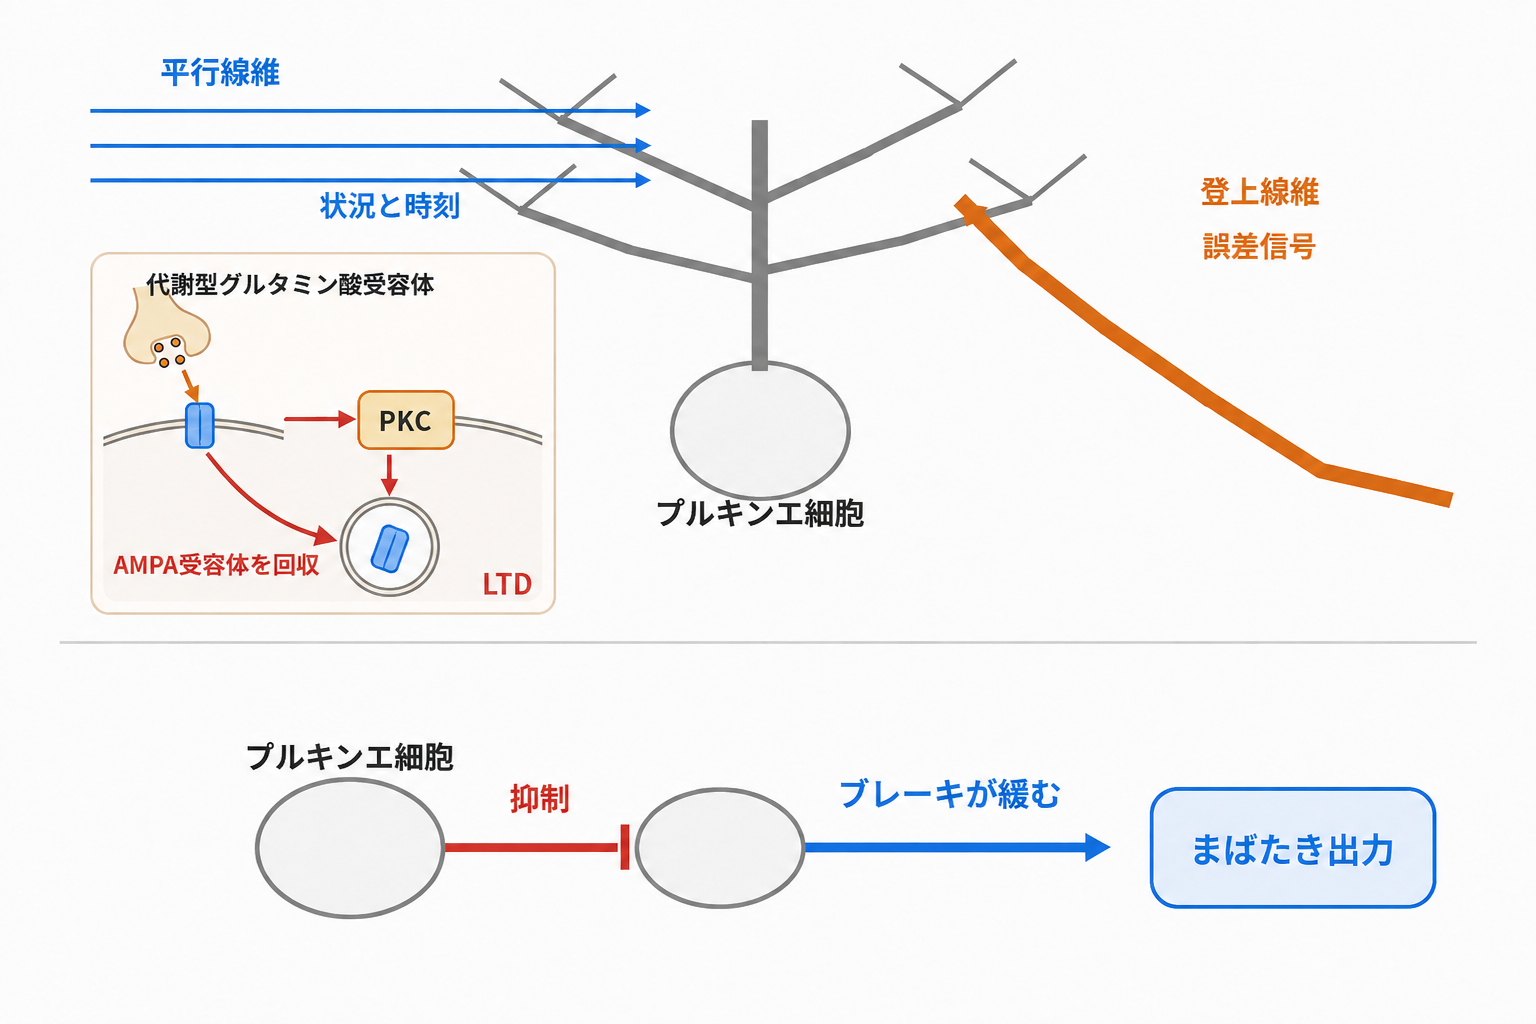
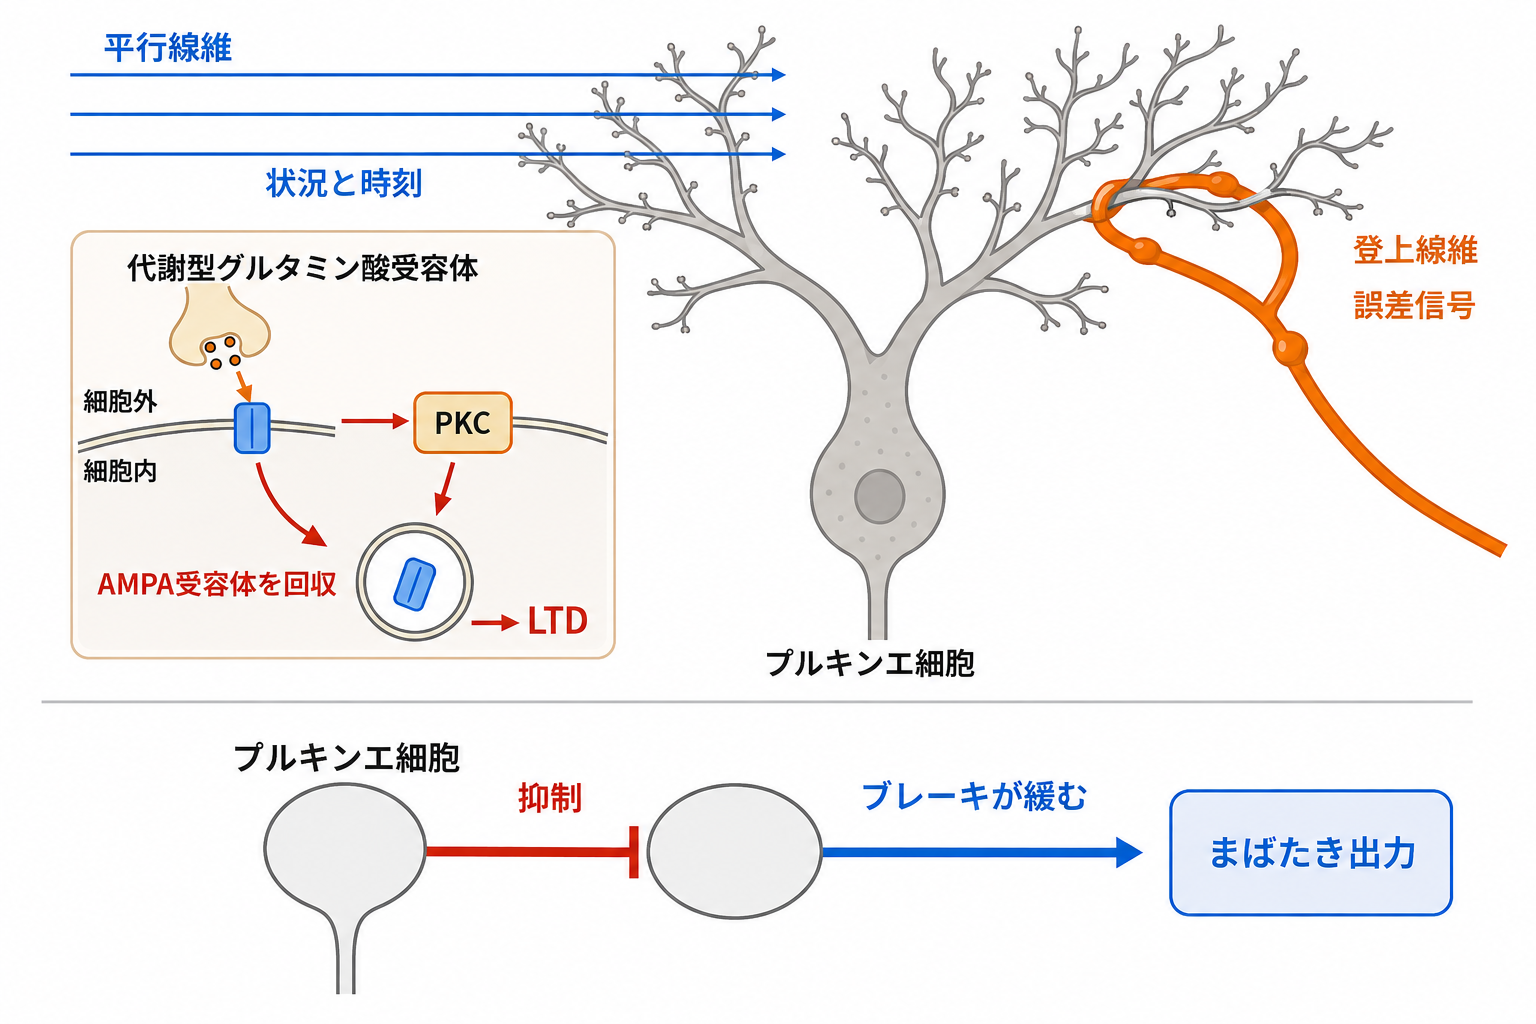
fix: update engram figure explanations

diff --git a/scripts/figs/memory-engram.md b/scripts/figs/memory-engram.md
@@ -3,7 +3,7 @@
 - 生成手段：ChatGPT built-in image generation（gpt-image-2）
 - 生成日：2026-08-12
 - 初回受領：スキル改訂前のため、個別PNGをリポジトリルートの `tmp/` で受領
-- 修正版受領：`tmp/memory-engram-figures.zip`。旧指示による全11枚入りだが、差分適用したのは `fig7-bdnf-feedback.png` と `fig10-cerebellar-ltd.png` の2枚だけ
+- 今回の差し替え元：`tmp/ChatGPT Image 2026年8月12日 14_43_39.png`（fig7）、`tmp/ChatGPT Image 2026年8月12日 14_43_17.png`（fig10）
 - 期待寸法：1536×1024、8-bit RGB PNG
 - 配色：青 `#1f6fd0` は主信号・増強、橙 `#e07b1f` は選択・修飾、赤 `#cf3b2d` は抑制・弱化・回収・除去、灰 `#8d8d8d` は構造
 
@@ -23,8 +23,8 @@
 
 ### 再生成後に採用
 
-- `fig7-bdnf-feedback.png`：核内転写、BDNF mRNAの核外輸送、細胞質での翻訳が分けられたことを確認して採用。
-- `fig10-cerebellar-ltd.png`：膜上AMPA受容体から細胞内小胞へ向かう回収矢印を確認して採用。
+- `fig7-bdnf-feedback.png`：核内転写、BDNF mRNAの核外輸送、細胞質での翻訳が分けられたことを確認して採用。分泌経路は図では模式的に省略し、本文キャプションで明記した。
+- `fig10-cerebellar-ltd.png`：膜上AMPA受容体から細胞内小胞へ向かう回収矢印を確認して採用。本文は平行線維先行・適切な時間窓での登上線維活動に合わせた。
 
 ### 図にしなかった重要箇所
 
@@ -324,8 +324,8 @@
 - TrkBは2個組になり、細胞内側で相互リン酸化する。
 - TrkBからERK経路が活性化される。
 - ERKから核内CREBへ信号が届く。
-- CREBによる転写で新しいBDNFが作られる。
-- 新しく作られたBDNFが回路の入口へ戻る正のフィードバックを、大きな橙色の循環矢印で示す。
+- CREBによるBDNF mRNAの転写で設計図が作られ、核外へ運ばれる。
+- 細胞質側でBDNFタンパク質が翻訳され、分泌経路を経て回路の入口へ戻る正のフィードバックを、大きな橙色の循環矢印で示す（分泌経路は図では簡略化する）。
 - 循環は細胞全体ではなく、活動スパイン近傍の局所性が分かる構成にする。
 - 「調節された正のフィードバック」であり、無制限に暴走する図にはしない。
 
@@ -428,7 +428,7 @@
 - 多数を数で描かず、複数の細い平行線維がプルキンエ細胞の樹状突起へ入る構成。
 - 1本の太い登上線維が、プルキンエ細胞へ強く巻き付く。
 - 平行線維は「状況と時刻」、登上線維は「誤差信号」を運ぶ。
-- 両方が同時に活動した平行線維シナプスだけで反応が起きる。
+- 平行線維が先に活動し、適切な時間窓で登上線維も活動した平行線維シナプスだけで反応が起きる。
 - 分子経路は「代謝型グルタミン酸受容体 → PKC → AMPA受容体の回収」。
 - その平行線維シナプスがLTDになる。
 - プルキンエ細胞は下流の細胞を抑制する。抑制はT字端で示す。
